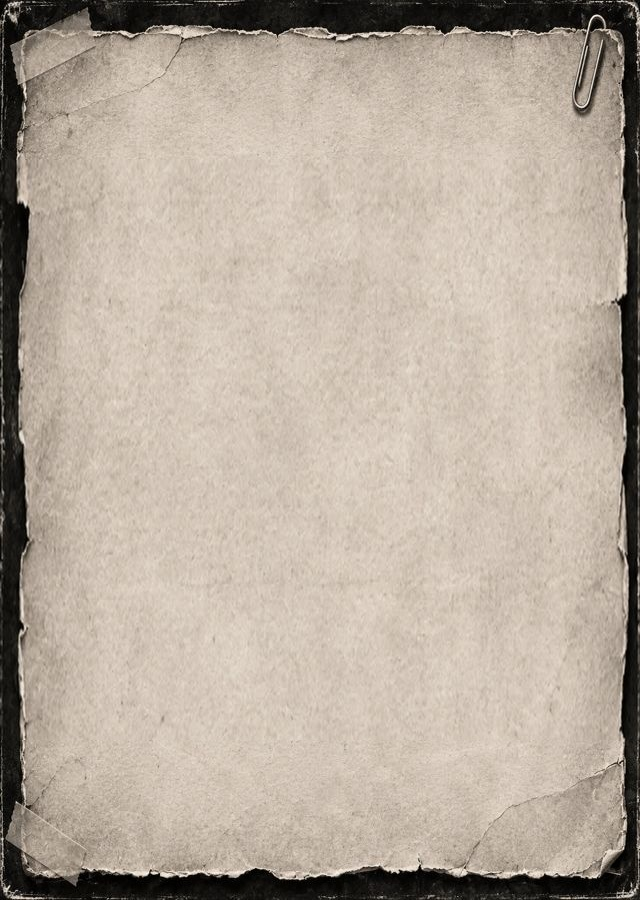
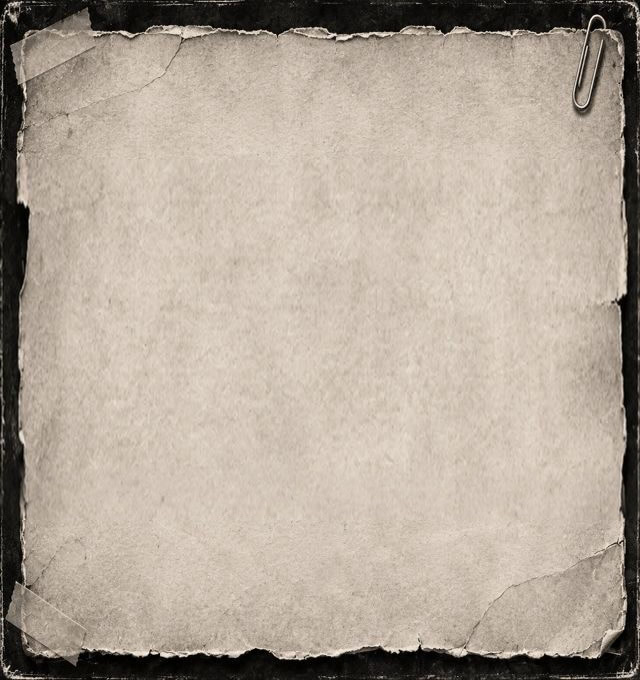
feat(mobile): replace achievements pagination with top-to-bottom scroll and shorten document height

diff --git a/src/components/AchievementsSection.tsx b/src/components/AchievementsSection.tsx
@@ -64,9 +64,6 @@ export default function AchievementsSection() {
   const scrollContainerRef = useRef<HTMLDivElement | null>(null);
   const itemRefs = useRef<(HTMLDivElement | null)[]>([]);
 
-  const ITEMS_PER_MOBILE_PAGE = 3;
-  const [mobilePage, setMobilePage] = useState<number>(0);
-
   const [stageBounds, setStageBounds] = useState({
     width: 1024,
     height: 576,
@@ -155,28 +152,6 @@ export default function AchievementsSection() {
     if (!el) return;
     const delta = direction === "down" ? 140 : -140;
     el.scrollBy({ top: delta, behavior: "smooth" });
-  };
-
-  const totalMobilePages = Math.ceil(achievements.length / ITEMS_PER_MOBILE_PAGE);
-  const hasNextMobilePage = mobilePage < totalMobilePages - 1;
-  const hasPrevMobilePage = mobilePage > 0;
-
-  const handleMobilePillClick = (idx: number) => {
-    setActiveIdx(idx);
-    const targetPage = Math.floor(idx / ITEMS_PER_MOBILE_PAGE);
-    setMobilePage(targetPage);
-  };
-
-  const handleMobilePageChange = (direction: "up" | "down") => {
-    if (direction === "down" && hasNextMobilePage) {
-      const nextPage = mobilePage + 1;
-      setMobilePage(nextPage);
-      setActiveIdx(nextPage * ITEMS_PER_MOBILE_PAGE);
-    } else if (direction === "up" && hasPrevMobilePage) {
-      const prevPage = mobilePage - 1;
-      setMobilePage(prevPage);
-      setActiveIdx(prevPage * ITEMS_PER_MOBILE_PAGE);
-    }
   };
 
   const typographyScale = Math.min(Math.max(stageBounds.scale, 0.72), 1.35);
@@ -445,161 +420,62 @@ export default function AchievementsSection() {
           </div>
         </div>
 
-        {/* Vertical Parchment Document Ledger */}
-        <div className="relative w-full max-w-[420px] sm:max-w-[480px] rounded-xl overflow-hidden shadow-[0_12px_36px_rgba(0,0,0,0.85)] filter drop-shadow-[0_8px_24px_rgba(0,0,0,0.9)] flex flex-col justify-between">
-          {/* Vertical Parchment Document Backdrop */}
+        {/* Vertical Parchment Document Ledger: Shorter from bottom, does not take whole section */}
+        <div className="relative w-full max-w-[390px] sm:max-w-[440px] h-[370px] sm:h-[410px] rounded-xl overflow-hidden shadow-[0_12px_36px_rgba(0,0,0,0.85)] filter drop-shadow-[0_8px_24px_rgba(0,0,0,0.9)] flex flex-col">
+          {/* Vertical Parchment Document Backdrop (Shortened from bottom) */}
           <div className="absolute inset-0 z-0">
             <Image
               src="/images/achievements-document-vertical.jpg"
               alt="Achievements Document"
               fill
               priority
-              sizes="(max-width: 640px) 100vw, 480px"
+              sizes="(max-width: 640px) 100vw, 440px"
               className="object-fill select-none pointer-events-none filter contrast-[1.03] brightness-[1.01]"
             />
           </div>
 
-          {/* Document Content: Showing 3 achievements first, navigate for more */}
-          <div className="relative z-10 w-full flex flex-col justify-between pt-5 sm:pt-6 pb-2.5 sm:pb-3 px-4 sm:px-6 min-h-[440px] sm:min-h-[470px]">
-            <div className="relative w-full flex-1 overflow-hidden flex flex-col justify-between">
-              <AnimatePresence mode="wait">
-                <motion.div
-                  key={`mobile-page-${mobilePage}`}
-                  initial={{ opacity: 0, y: mobilePage === 1 ? 14 : -14 }}
-                  animate={{ opacity: 1, y: 0 }}
-                  exit={{ opacity: 0, y: mobilePage === 1 ? -14 : 14 }}
-                  transition={{ duration: 0.28, ease: [0.19, 1, 0.22, 1] }}
-                  className="space-y-2 sm:space-y-2.5"
-                >
-                  {achievements
-                    .slice(
-                      mobilePage * ITEMS_PER_MOBILE_PAGE,
-                      mobilePage * ITEMS_PER_MOBILE_PAGE + ITEMS_PER_MOBILE_PAGE
-                    )
-                    .map((item, localIdx) => {
-                      const globalIdx = mobilePage * ITEMS_PER_MOBILE_PAGE + localIdx;
-                      const isActive = activeIdx === globalIdx;
+          {/* Document Content: Scrollable from top to bottom (No navigation buttons) */}
+          <div className="relative z-10 w-full h-full flex flex-col pt-5 sm:pt-6 pb-3 sm:pb-4 px-3.5 sm:px-5">
+            {/* Scrollable list of all achievements (01 to 05) */}
+            <div className="w-full flex-1 overflow-y-auto paper-scrollbar pr-1.5 space-y-2 sm:space-y-2.5 touch-pan-y overscroll-contain">
+              {achievements.map((item, idx) => {
+                const isActive = activeIdx === idx;
 
-                      return (
-                        <div
-                          key={item.id}
-                          onClick={() => setActiveIdx(globalIdx)}
-                          className={`group relative p-2 sm:p-2.5 rounded-lg transition-all duration-200 cursor-pointer ${
-                            isActive
-                              ? "bg-[#1c1917]/[0.08] border-l-2 border-[#1c1917] pl-2.5 sm:pl-3 shadow-sm"
-                              : "bg-transparent hover:bg-[#1c1917]/[0.03] border-l-2 border-transparent"
-                          }`}
-                        >
-                          <div className="flex items-start justify-between gap-1.5">
-                            <h4 className="font-typewriter font-bold text-xs sm:text-sm text-[#1c1917] flex items-start gap-1.5 leading-snug">
-                              <span className="text-[#1c1917] select-none leading-none mt-0.5">•</span>
-                              <span className="font-mono text-[#1c1917] select-none">{item.number}.</span>
-                              <span>{item.title}</span>
-                            </h4>
-
-                            {item.tag && (
-                              <span className="font-mono text-[8.5px] sm:text-[9.5px] px-1.5 py-0.5 rounded border border-[#1c1917]/25 bg-[#1c1917]/5 text-[#1c1917] font-bold uppercase tracking-wider shrink-0 mt-0.5">
-                                {item.tag}
-                              </span>
-                            )}
-                          </div>
-
-                          <p className="font-mono text-[11px] sm:text-xs text-[#38332b] font-medium mt-1 pl-3 sm:pl-3.5 relative leading-relaxed">
-                            <span className="absolute left-0.5 top-0 text-[#1c1917] text-xs leading-none">•</span>
-                            {item.description}
-                          </p>
-
-                          {localIdx < ITEMS_PER_MOBILE_PAGE - 1 && localIdx < (mobilePage === 0 ? 2 : 1) && (
-                            <div className="w-full h-[1px] bg-[#1c1917]/15 mt-2 sm:mt-2.5" />
-                          )}
-                        </div>
-                      );
-                    })}
-                </motion.div>
-              </AnimatePresence>
-
-              {/* Navigation Action Prompt inside Document */}
-              <div className="pt-2 pb-0.5">
-                {mobilePage === 0 ? (
-                  <motion.button
-                    whileHover={{ scale: 1.01 }}
-                    whileTap={{ scale: 0.98 }}
-                    onClick={() => handleMobilePageChange("down")}
-                    className="w-full py-1.5 px-3 rounded-lg border border-[#1c1917]/25 bg-[#1c1917]/[0.06] hover:bg-[#1c1917]/[0.12] text-[#1c1917] font-mono text-[10.5px] sm:text-[11.5px] font-bold tracking-wider uppercase flex items-center justify-center gap-1.5 transition-all cursor-pointer shadow-sm group"
+                return (
+                  <div
+                    key={item.id}
+                    onClick={() => setActiveIdx(idx)}
+                    className={`group relative p-2 sm:p-2.5 rounded-lg transition-all duration-200 cursor-pointer ${
+                      isActive
+                        ? "bg-[#1c1917]/[0.08] border-l-2 border-[#1c1917] pl-2.5 sm:pl-3 shadow-sm"
+                        : "bg-transparent hover:bg-[#1c1917]/[0.03] border-l-2 border-transparent"
+                    }`}
                   >
-                    <span>View More Achievements (04–05)</span>
-                    <ChevronDown className="w-3.5 h-3.5 group-hover:translate-y-0.5 transition-transform" />
-                  </motion.button>
-                ) : (
-                  <motion.button
-                    whileHover={{ scale: 1.01 }}
-                    whileTap={{ scale: 0.98 }}
-                    onClick={() => handleMobilePageChange("up")}
-                    className="w-full py-1.5 px-3 rounded-lg border border-[#1c1917]/25 bg-[#1c1917]/[0.06] hover:bg-[#1c1917]/[0.12] text-[#1c1917] font-mono text-[10.5px] sm:text-[11.5px] font-bold tracking-wider uppercase flex items-center justify-center gap-1.5 transition-all cursor-pointer shadow-sm group"
-                  >
-                    <ChevronUp className="w-3.5 h-3.5 group-hover:-translate-y-0.5 transition-transform" />
-                    <span>Back to Achievements (01–03)</span>
-                  </motion.button>
-                )}
-              </div>
-            </div>
+                    <div className="flex items-start justify-between gap-1.5">
+                      <h4 className="font-typewriter font-bold text-xs sm:text-sm text-[#1c1917] flex items-start gap-1.5 leading-snug">
+                        <span className="text-[#1c1917] select-none leading-none mt-0.5">•</span>
+                        <span className="font-mono text-[#1c1917] select-none">{item.number}.</span>
+                        <span>{item.title}</span>
+                      </h4>
 
-            {/* Bottom Number Pills & Navigation Buttons */}
-            <div className="flex items-center justify-between pt-1.5 sm:pt-2 border-t border-[#1c1917]/15 shrink-0 px-1 mt-auto">
-              <div className="flex items-center gap-1 sm:gap-1.5">
-                {achievements.map((item, idx) => {
-                  const itemPage = Math.floor(idx / ITEMS_PER_MOBILE_PAGE);
-                  const isCurrentPage = itemPage === mobilePage;
-                  const isActive = activeIdx === idx;
+                      {item.tag && (
+                        <span className="font-mono text-[8.5px] sm:text-[9.5px] px-1.5 py-0.5 rounded border border-[#1c1917]/25 bg-[#1c1917]/5 text-[#1c1917] font-bold uppercase tracking-wider shrink-0 mt-0.5">
+                          {item.tag}
+                        </span>
+                      )}
+                    </div>
 
-                  return (
-                    <button
-                      key={item.id}
-                      onClick={() => handleMobilePillClick(idx)}
-                      className={`px-2 sm:px-2.5 py-0.5 rounded font-mono text-[9.5px] sm:text-[10.5px] font-bold transition-all cursor-pointer ${
-                        isActive
-                          ? "bg-[#1c1917] text-[#ded3c5] shadow-sm scale-105"
-                          : isCurrentPage
-                          ? "bg-[#1c1917]/15 text-[#292524] hover:bg-[#1c1917]/25"
-                          : "bg-[#1c1917]/5 text-[#78716c] hover:bg-[#1c1917]/15"
-                      }`}
-                    >
-                      • {item.number}
-                    </button>
-                  );
-                })}
-              </div>
+                    <p className="font-mono text-[11px] sm:text-xs text-[#38332b] font-medium mt-1 pl-3 sm:pl-3.5 relative leading-relaxed">
+                      <span className="absolute left-0.5 top-0 text-[#1c1917] text-xs leading-none">•</span>
+                      {item.description}
+                    </p>
 
-              {/* Page Indicator & Chevron Arrows */}
-              <div className="flex items-center gap-1.5">
-                <span className="font-mono text-[9px] sm:text-[10px] text-[#57534e] font-semibold">
-                  {mobilePage + 1}/{totalMobilePages}
-                </span>
-                <button
-                  onClick={() => handleMobilePageChange("up")}
-                  disabled={!hasPrevMobilePage}
-                  title="Previous Achievements"
-                  className={`p-1 sm:p-1.5 rounded transition-colors ${
-                    hasPrevMobilePage
-                      ? "bg-[#1c1917]/15 hover:bg-[#1c1917]/25 text-[#1c1917] cursor-pointer"
-                      : "opacity-25 text-[#44403c] cursor-not-allowed"
-                  }`}
-                >
-                  <ChevronUp className="w-3.5 h-3.5 sm:w-4 sm:h-4" />
-                </button>
-                <button
-                  onClick={() => handleMobilePageChange("down")}
-                  disabled={!hasNextMobilePage}
-                  title="Next Achievements"
-                  className={`p-1 sm:p-1.5 rounded transition-colors ${
-                    hasNextMobilePage
-                      ? "bg-[#1c1917]/15 hover:bg-[#1c1917]/25 text-[#1c1917] cursor-pointer"
-                      : "opacity-25 text-[#44403c] cursor-not-allowed"
-                  }`}
-                >
-                  <ChevronDown className="w-3.5 h-3.5 sm:w-4 sm:h-4" />
-                </button>
-              </div>
+                    {idx < achievements.length - 1 && (
+                      <div className="w-full h-[1px] bg-[#1c1917]/15 mt-2 sm:mt-2.5" />
+                    )}
+                  </div>
+                );
+              })}
             </div>
           </div>
         </div>
